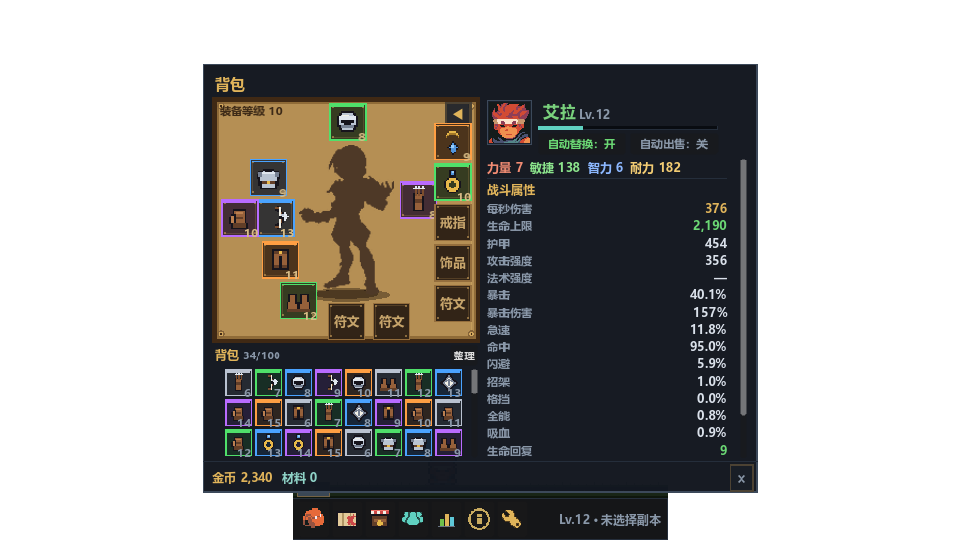
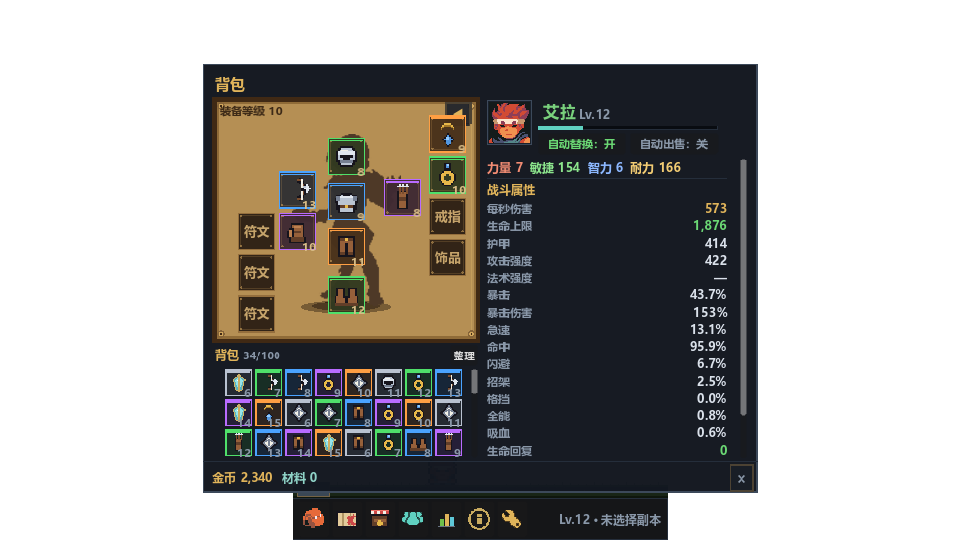
Align equipment slots to body positions

diff --git a/README.md b/README.md
@@ -2,7 +2,7 @@
 
 桌面宠物式像素挂机小游戏。没有技能、没有手动战斗，只有角色天赋、装备词条和一路变强的数字。
 
-- 版本：0.48.0
+- 版本：0.49.0
 - 引擎：Godot 4.7.2（GL Compatibility）
 - 逻辑分辨率：1280 × 720
 - 实际窗口：960 × 540，**无边框、透明、可拖动**
@@ -144,12 +144,13 @@
 
 ## 背包（B）
 
-![背包](shots/v480_bag.png)
+![背包](shots/v490_bag.png)
 
 - 装备展示区改为羊皮纸底、暗色人形剪影和暗棕金边槽位
-- 人形直接使用参考图中提取的剪影素材
-- 槽位按身体位置摆放：头盔在头顶，胸/手/武器/腿/鞋沿左侧身体向下，武器靠近手部
-- 项链、戒指、饰品和符文集中放在右侧与底部，不再遮挡人形
+- 人形直接使用参考图中提取的剪影素材，并适度放大
+- 头盔/胸甲/腿甲/鞋子沿人形身体从上到下摆放
+- 护手在左手位置，主武器槽在左手上方，副手武器槽在右手位置
+- 三枚符文在左下纵向排列；项链、双戒、饰品在右上纵向排列
 
 ![装备提示](shots/v300_tooltip.png)
 
@@ -161,7 +162,7 @@
   - 左键点击装备/卸下、右键菜单仍保留
 - 右下角关闭 ×；拖动边缘移动面板
 - 右侧属性区宽度由 400 缩到 340；除角色名、等级外整体字号 +1
-- 槽位保持 50px：头顶头盔；左侧胸甲/手套/主手/护腿/鞋；右手附近副手；右侧项链/双戒/饰品/符文；底部两枚符文
+- 槽位保持 50px：头/胸/腿/鞋在中轴，护手和主手在左手侧，副手在右手侧，符文在左下，饰品在右上
 - 背包 8 列，滚轮查看；100 格
 - 装备区支持 `◀/▶` 收起/展开，收起时左边位置保持不变
 - 初始装备只有新手四件；之前的测试武器已移除
